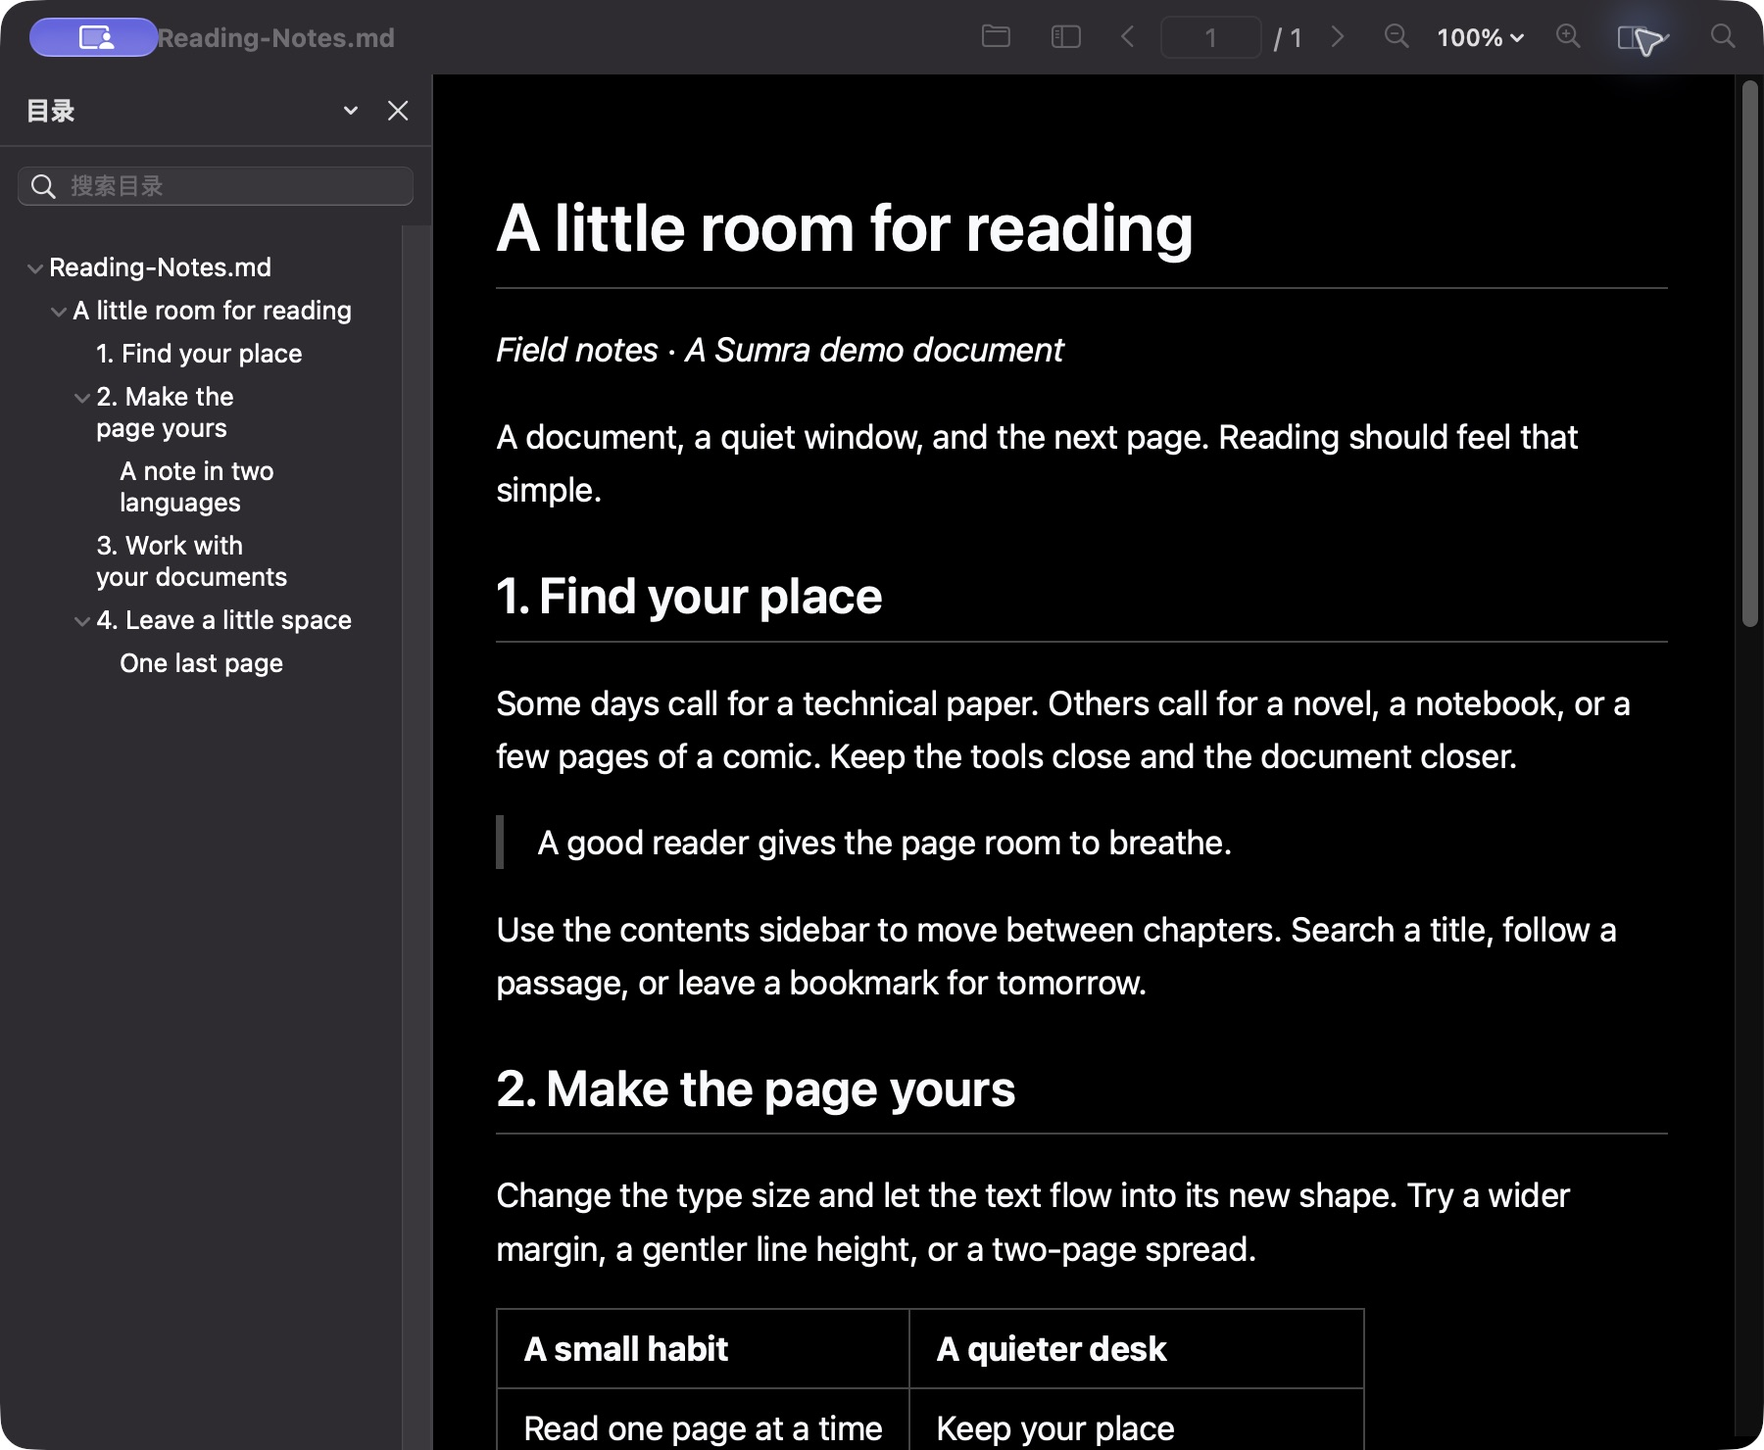
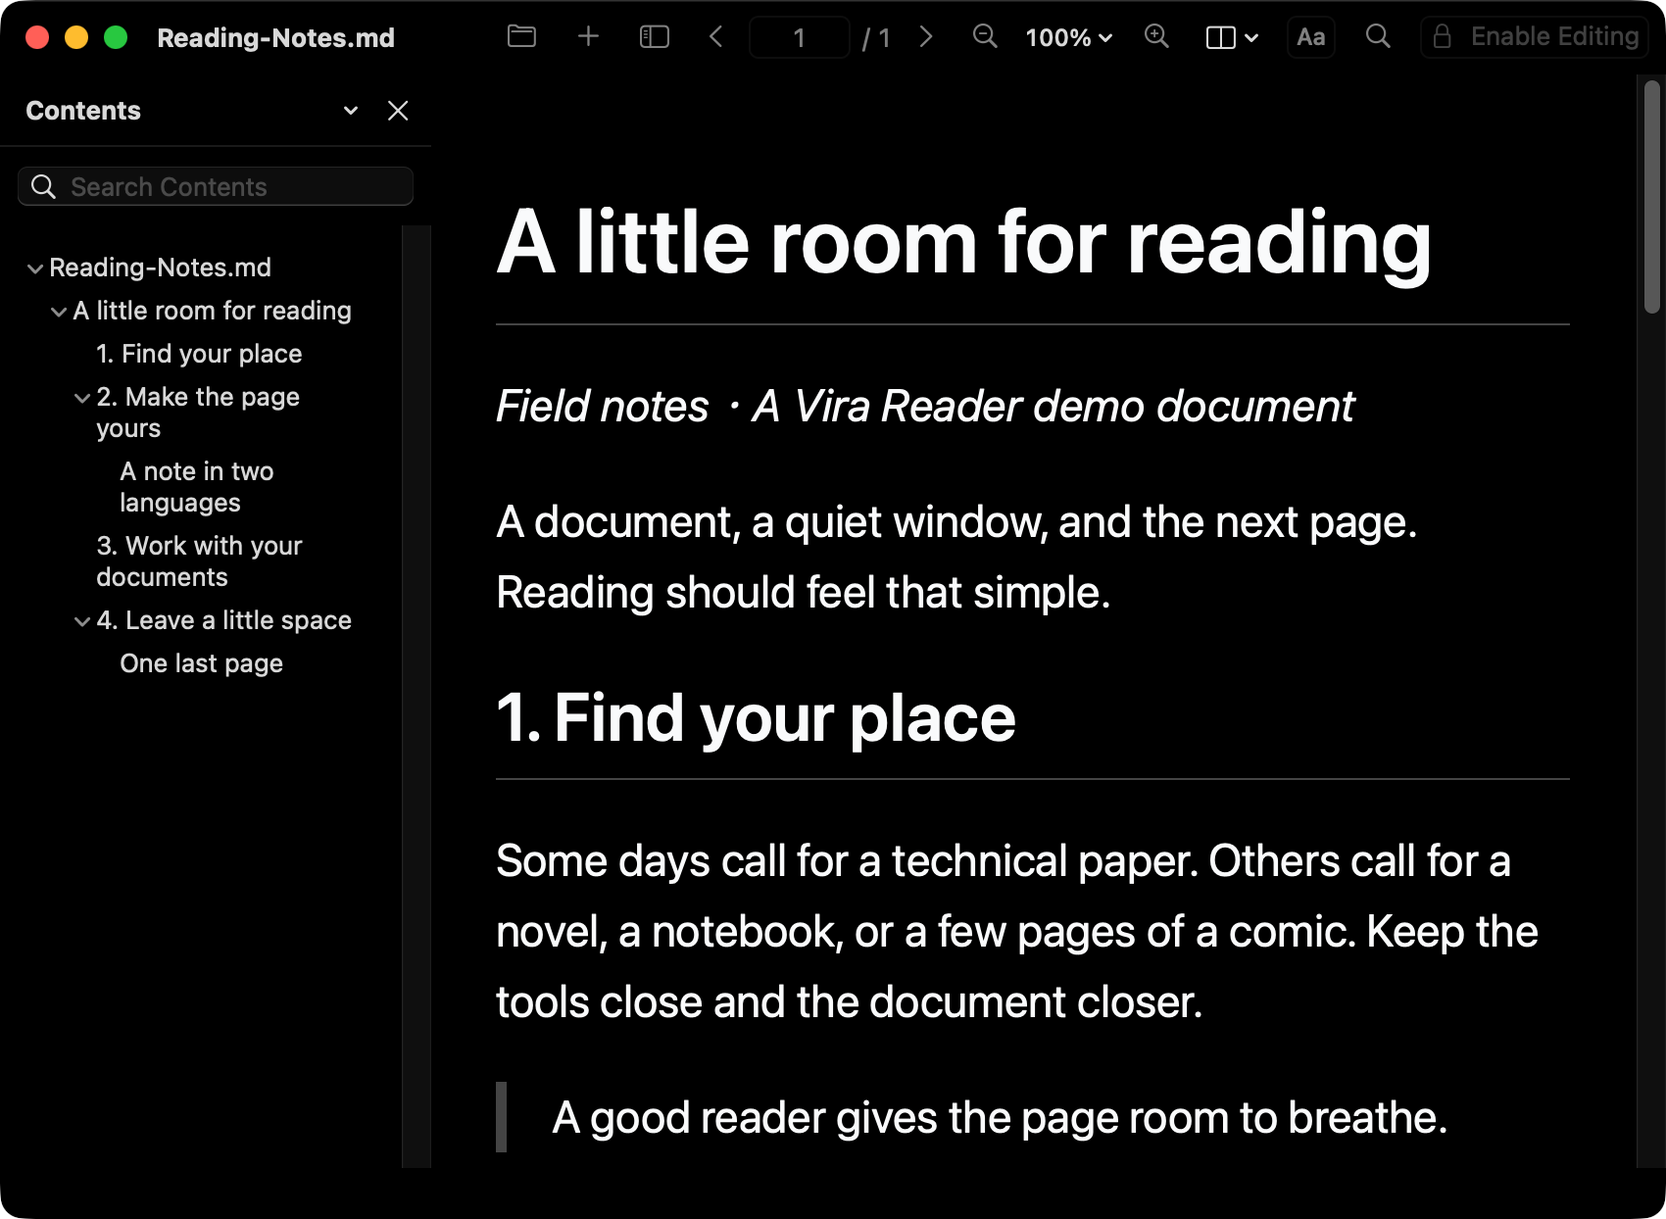
Record signed Vira identity migration and native preview screenshots

diff --git a/docs/VIRA_READER_RENAME.md b/docs/VIRA_READER_RENAME.md
@@ -6,10 +6,26 @@ The icon follows the maintainer's supplied monochrome double-page V reference. [
 
 The application uses `dev.aresx.vira-reader`, with `.preview` and `.thumbnail` extensions. Existing exported document UTIs and the `sumra://synctex` integration remain compatible. The Ares-X signing certificate and Sparkle Ed25519 key are unchanged. Existing diagnostic/cache storage remains in its current location. A one-time preference migration reads the old `dev.aresx.leaf` domain, preserves existing new-domain choices, copies settings/history/bookmarks/positions without changing the old domain, and excludes old Sparkle delivery/runtime state. It runs before diagnostics and language initialization. Native macOS saved windows and default file-handler selection are separate OS state and are not claimed to migrate.
 
-Changing both the application filename and bundle ID means stock Sumra 0.2.47 cannot identify the new bundle as an in-place update. The first transition requires manually installing `Vira Reader.app`. The old `appcast.xml` remains frozen for Sumra; the new identity uses `vira-appcast.xml`, initially a valid empty feed because this round does not publish a Vira Reader version. Future Vira releases update only the new feed. No custom installer, bridge build or duplicate update archive is introduced. Actual signed manual-install and preference-migration acceptance remains pending.
+Changing both the application filename and bundle ID means stock Sumra 0.2.47 cannot identify the new bundle as an in-place update. The first transition requires manually installing `Vira Reader.app`. The old `appcast.xml` remains frozen for Sumra; the new identity uses `vira-appcast.xml`, initially a valid empty feed because this round does not publish a Vira Reader version. Future Vira releases update only the new feed. No custom installer, bridge build or duplicate update archive is introduced. Signed manual installation and preference migration passed in the existing macOS 26.6.2 VM; details follow below.
 
-At the maintainer's explicit selection, 77 older releases and their 461 assets were deleted, representing 14,224,912,496 logical bytes. Public versions 0.2.45/46/47 and the previously accepted 0.2.48 draft were retained with their original asset identities. All 48 Git tag refs and commit history remained unchanged. The new branding candidate will be tested separately. No billing or physical storage reclamation is inferred from asset sizes.
+At the maintainer's explicit selection, 77 older releases and their 461 assets were deleted, representing 14,224,912,496 logical bytes. Public versions 0.2.45/46/47 and the previously accepted 0.2.48 draft were retained with their original asset identities. All 48 Git tag refs and commit history remained unchanged. The separately built new-identity candidate passed the acceptance recorded below. No billing or physical storage reclamation is inferred from asset sizes.
 
-After repository rename, the old and new raw feeds returned identical bytes, all 18 preserved old asset URLs were reachable, the three public checksum manifests matched, and old/new Git HEADs matched. The old PR URL redirected correctly. The old issue #158 webpage returned 404 even with a unique query, while its new webpage returned 200 and both API paths returned the same issue ID. That GitHub webpage redirect remains an external limitation; use the canonical new issue link. No reporter reply was posted.
+After repository rename, the old and new raw feeds returned identical bytes, all 18 preserved old asset URLs were reachable, the three public checksum manifests matched, and old/new Git HEADs matched. The old PR URL redirected correctly. The old issue #158 webpage initially returned 404 even with a unique query. A later bare GET at 2026-11-17 09:45:39 UTC returned 200 and redirected to the canonical new issue URL; the initial failure and recovery evidence are retained. Both API paths always returned the same issue ID. No reporter reply was posted.
 
-Evidence is retained under `build/issues-remaining48/rebrand/`: exact cleanup manifests and per-release deletion receipts, post-rename public compatibility probes, packaging/localization checks, and focused native tests. The original bug-fix draft's signed acceptance is recorded separately in [the issue acceptance record](ISSUES_158_160_161_ACCEPTANCE.md). Signed branding/update/visual acceptance will be appended after the exact candidate is exercised in the existing macOS 26.6.2 VM.
+Evidence is retained under `build/issues-remaining48/rebrand/`: exact cleanup manifests and per-release deletion receipts, post-rename public compatibility probes, packaging/localization checks, and focused native tests. The original bug-fix draft's signed acceptance is recorded separately in [the issue acceptance record](ISSUES_158_160_161_ACCEPTANCE.md). The signed branding and manual-migration acceptance below does not claim an in-place Sumra upgrade or a public Vira release.
+
+## Accepted new-identity preview
+
[1 lines of base64/hex data omitted]
+
+All six assets, all 140 application files, all three new bundle identifiers, original certificate/public-key pins, arm64/macOS 13 metadata and corresponding-source inventory passed verification. The installed VM application matched all 140 file hashes and passed deep strict signature checks. The old-ID intermediate build was cancelled when the maintainer requested the new identity.
+
+The original signed Sumra 0.2.47 first displayed a controlled recent document. Fresh manual installation of the exact Vira archive showed that same history on its new Home screen. Font size 23, English language, history Data, pinned state and the automatic-check choice matched. The old domain was semantically identical before and after launch. Old feed/key overrides were excluded. A second launch preserved the new toolbar choice, history and identity marker; the old domain again remained unchanged. The isolated migration tests separately cover existing new-domain choices, byte preservation and one-time behavior.
+
+The new icon appeared on Home and in the Dock. The signed app opened the original Markdown demo and rendered light/dark reading views with its contents sidebar. Three README screenshots were captured directly from the actual native windows; the two-page image remains explicitly labelled as a historical Sumra capture. No personal documents are shown.
+
+Actual Finder Quick Look loaded the new `dev.aresx.vira-reader.preview` executable from the accepted app and rendered the controlled CBZ at 1/3. This is preview-render acceptance, not keyboard or page-navigation acceptance. The thumbnail bundle's new identity/signature was verified; the VM's pre-existing thumbnail service was preserved, so a newly loaded thumbnail host is not claimed. macOS default associations, native saved-window state, Keychain authorization and reporter macOS 15.7.5 were not accepted as migration outcomes.
+
+Local checks passed: 58 packaging checks, host/extension registration, localization metadata, six contributor-script cases, 15 focused branding cases, then 15 focused identity/migration/native cases. The identity suite kept source and engine hashes frozen and removed its private hosts/preferences. No new public version, reporter comment or issue closure was performed. #96 remains unresolved; #158 awaits the reporter's original-system confirmation, and #160/#161 await public delivery.
+
+Detailed evidence: `rebrand/release/signed-verification.json`, `vm/vira-installed.json`, `vm/vira-migration-acceptance.json`, `vm/vira-second-launch-acceptance.json`, `vm/vira-finder-acceptance.json` and the original native-window PNGs under `build/issues-remaining48/`.

diff --git a/README.md b/README.md
@@ -12,20 +12,20 @@
 
 [**Download Sumra 0.2.47**](https://github.com/Ares-X/Vira-Reader/releases/latest) · [Release notes](https://github.com/Ares-X/Vira-Reader/releases) · [Supported formats](#supported-formats) · [Build from source](#build-from-source) · [Report an issue](https://github.com/Ares-X/Vira-Reader/issues)
 
-**Rename preview:** Vira Reader is the new name of Sumra. No Vira Reader release has been published yet; the latest public download is still **Sumra 0.2.47**. Build the renamed app from source to try this preview. The screenshots below show the previous Sumra interface.
+**Rename preview:** Vira Reader is the new name of Sumra. No Vira Reader release has been published yet; the latest public download is still **Sumra 0.2.47**. Build the renamed app from source to try this preview. Home, light-mode and dark-mode screenshots show the signed Vira Reader preview; the two-page screenshot shows the earlier Sumra version.
 
 Open an EPUB novel, a comic archive, a folder of images, Markdown notes or a PDF from Finder. Read in native Mac windows and tabs, choose your layout, and use contents, search and bookmarks to find your place.
 
-![Sumra displaying Markdown reading notes and contents in light mode](docs/images/reader-light.png)
+![Vira Reader displaying Markdown reading notes and contents in light mode](docs/images/reader-light.png)
 
 <details>
 <summary>More screenshots: two-page reading, recent files and dark mode</summary>
 
-![Two-page reading with the contents sidebar](docs/images/reader-two-pages.png)
+![Earlier Sumra version: two-page reading with the contents sidebar](docs/images/reader-two-pages.png)
 
-![Recent documents on the Home screen](docs/images/home-light.png)
+![Vira Reader recent documents on the Home screen](docs/images/home-light.png)
 
-![Reading in dark mode](docs/images/reader-dark.png)
+![Vira Reader reading in dark mode](docs/images/reader-dark.png)
 
 All screenshots use the repository's [original demo document](docs/demos/Reading-Notes.md).
 
@@ -46,7 +46,7 @@ Public builds use the maintainer's **Ares-X Code Signing** self-signed certifica
 
 The release targets **Apple Silicon (arm64)** and **macOS 13 or later**. Bundled executables and libraries are checked for arm64 support, deployment targets and runtime dependencies. Reader GUI acceptance has been performed on a macOS 26.6.2 VM; a physical macOS 13 machine has not yet been verified.
 
-**Moving from Sumra:** install **Vira Reader.app** manually once; the app has a new bundle identifier and a separate update feed. Sumra’s feed stays at 0.2.47. On first launch, the app copies old preferences and reading history without overwriting choices already saved in Vira Reader; VM acceptance of this migration is pending. Default file associations and macOS saved windows are not migrated.
+**Moving from Sumra:** install **Vira Reader.app** manually once; the app has a new bundle identifier and a separate update feed. Sumra’s feed stays at 0.2.47. On first launch, the app copies old preferences and reading history without overwriting choices already saved in Vira Reader. A manual-install check on macOS 26.6.2 verified controlled reading history, font size, language and the automatic-update choice, with the original Sumra settings unchanged. Default file associations and macOS saved windows are outside this preference migration.
 
 Vira Reader uses its own update feed, which currently contains no published release. PostScript and EPS require a separate Ghostscript installation.
 
@@ -65,7 +65,7 @@ Use the sidebar for Contents, thumbnails and bookmarks, the **View** menu for la
 
 Choose from five built-in reading themes, or save your own text, background and link colors. **View → Document Colors → Choose Theme…** previews the selection; **Customize…** creates a named palette or edits the selected custom theme. Previously saved theme settings remain readable:
 
-![Preview of Sumra's five built-in reading themes](docs/images/themes.png)
+![Preview of Vira Reader's five built-in reading themes](docs/images/themes.png)
 
 Choose installed fonts from the reading **Font** menu or Settings. The **Aa** reading-settings button applies typography, colors and layout live; **Typography and CSS…** also accepts a family name, such as `Iowan Old Style`, including supplemental fonts macOS omits from its available-font list. Install your own font files with macOS Font Book first. **Light** uses pure white paper. For per-document text, background and link colors, open **View → Document Colors → Custom Document Colors…**. Color wells, RGB fields and an instant preview help you choose; **Use Theme** restores the theme palette.
 

diff --git a/README.zh-CN.md b/README.zh-CN.md
@@ -12,20 +12,20 @@
 
 [**下载 Sumra 0.2.47**](https://github.com/Ares-X/Vira-Reader/releases/latest) · [版本说明](https://github.com/Ares-X/Vira-Reader/releases) · [支持格式](#支持的格式) · [从源码构建](#从源码构建) · [问题反馈](https://github.com/Ares-X/Vira-Reader/issues)
 
-**更名预览：**Vira Reader 是 Sumra 的新名称。目前尚未公开发布 Vira Reader，最新公开下载仍为 **Sumra 0.2.47**。可从源码构建体验更名后的应用。下方截图展示更名前的 Sumra 界面。
+**更名预览：**Vira Reader 是 Sumra 的新名称。目前尚未公开发布 Vira Reader，最新公开下载仍为 **Sumra 0.2.47**。可从源码构建体验更名后的应用。首页、浅色和深色截图来自已签名的 Vira Reader 预览版；双页截图展示更名前的 Sumra 版本。
 
 从 Finder 打开 EPUB 小说、漫画压缩包、图片文件夹、Markdown 笔记或 PDF。在原生 Mac 窗口和标签页中阅读，选择合适的布局，用目录、搜索和书签找到想读的内容。
 
-![Sumra 浅色界面，展示 Markdown 阅读笔记与目录](docs/images/reader-light.png)
+![Vira Reader 浅色界面，展示 Markdown 阅读笔记与目录](docs/images/reader-light.png)
 
 <details>
 <summary>更多截图：双页阅读、最近文件与深色界面</summary>
 
-![双页阅读与目录侧栏](docs/images/reader-two-pages.png)
+![旧版 Sumra：双页阅读与目录侧栏](docs/images/reader-two-pages.png)
 
-![首页中的最近文档](docs/images/home-light.png)
+![Vira Reader 首页中的最近文档](docs/images/home-light.png)
 
-![深色阅读界面](docs/images/reader-dark.png)
+![Vira Reader 深色阅读界面](docs/images/reader-dark.png)
 
 截图均使用仓库内的[原创演示文档](docs/demos/Reading-Notes.md)。
 
@@ -46,7 +46,7 @@
 
 发行版面向 **Apple Silicon（arm64）**，最低系统目标为 **macOS 13**。打包时检查可执行文件与库的 arm64 支持、最低系统和运行时依赖。阅读器 GUI 已在 macOS 26.6.2 虚拟机完成验收，macOS 13 的实机兼容性尚未验证。
 
-**从 Sumra 迁移：**需手动安装一次 **Vira Reader.app**；新应用使用新的 bundle identifier 和独立更新源，Sumra 更新源停留在 0.2.47。首次启动会复制旧偏好设置和阅读历史，并保留 Vira Reader 已有的选择；此迁移尚待虚拟机验收。默认文件关联和 macOS 窗口恢复状态不会随偏好设置迁移。
+**从 Sumra 迁移：**需手动安装一次 **Vira Reader.app**；新应用使用新的 bundle identifier 和独立更新源，Sumra 更新源停留在 0.2.47。首次启动会复制旧偏好设置和阅读历史，并保留 Vira Reader 已有的选择；已在 macOS 26.6.2 虚拟机通过手动安装验证受控阅读历史、字号、语言和自动更新选择的迁移，原 Sumra 设置保持不变。默认文件关联和 macOS 窗口恢复状态不属于此偏好设置迁移范围。
 
 Vira Reader 使用独立更新源，目前其中尚无公开版本。PostScript 与 EPS 需另行安装 Ghostscript。
 
@@ -65,7 +65,7 @@ Vira Reader 使用独立更新源，目前其中尚无公开版本。PostScript 
 
 可从五种内置阅读主题中选择，也可自定义并保存正文、背景和链接颜色。现有自定义主题和已保存的设置仍可继续使用：
 
-![Sumra 五种内置阅读主题预览](docs/images/themes.png)
+![Vira Reader 五种内置阅读主题预览](docs/images/themes.png)
 
 工具栏 **Aa** 打开即时生效的阅读设置，集中调整已安装字体、字号、行距、边距、配色与布局，也可输入补充字体名称。CHM 带有关键词索引时，侧栏会提供独立的 **索引** 页签。EPUB 和漫画支持 Finder 缩略图与 Quick Look 翻页预览。详见[阅读控件](docs/READER_CONTROLS.md)和 [SyncTeX 编辑器集成](docs/SYNCTEX.md)。
 

diff --git a/README.zh-TW.md b/README.zh-TW.md
@@ -12,20 +12,20 @@
 
 [**下載 Sumra 0.2.47**](https://github.com/Ares-X/Vira-Reader/releases/latest) · [版本資訊](https://github.com/Ares-X/Vira-Reader/releases) · [支援格式](#支援的格式) · [從原始碼建置](#從原始碼建置) · [回報問題](https://github.com/Ares-X/Vira-Reader/issues)
 
-**更名預覽：**Vira Reader 是 Sumra 的新名稱。目前尚未公開發布 Vira Reader，最新公開下載仍為 **Sumra 0.2.47**。可從原始碼建置體驗更名後的 App。下方截圖顯示更名前的 Sumra 介面。
+**更名預覽：**Vira Reader 是 Sumra 的新名稱。目前尚未公開發布 Vira Reader，最新公開下載仍為 **Sumra 0.2.47**。可從原始碼建置體驗更名後的 App。首頁、淺色和深色截圖來自已簽署的 Vira Reader 預覽版；雙頁截圖顯示更名前的 Sumra 版本。
 
 從 Finder 開啟 EPUB 小說、漫畫壓縮檔、圖片資料夾、Markdown 筆記或 PDF。在原生 Mac 視窗和分頁中閱讀，選擇合適的版面配置，再透過目錄、搜尋和書籤找到想看的內容。
 
-![Sumra 淺色模式畫面，顯示 Markdown 閱讀筆記與目錄](docs/images/reader-light.png)
+![Vira Reader 淺色模式畫面，顯示 Markdown 閱讀筆記與目錄](docs/images/reader-light.png)
 
 <details>
 <summary>更多截圖：雙頁閱讀、最近開啟的檔案與深色模式</summary>
 
-![雙頁閱讀與目錄側邊欄](docs/images/reader-two-pages.png)
+![舊版 Sumra：雙頁閱讀與目錄側邊欄](docs/images/reader-two-pages.png)
 
-![首頁上的最近文件](docs/images/home-light.png)
+![Vira Reader 首頁上的最近文件](docs/images/home-light.png)
 
-![深色模式閱讀畫面](docs/images/reader-dark.png)
+![Vira Reader 深色模式閱讀畫面](docs/images/reader-dark.png)
 
 所有截圖都使用儲存庫中的[原創示範文件](docs/demos/Reading-Notes.md)。
 
@@ -46,7 +46,7 @@
 
 發行版以 **Apple Silicon（arm64）** 為目標平台，最低系統目標為 **macOS 13**。打包時會檢查內附執行檔和程式庫的 arm64 支援、最低部署版本與執行階段相依項目。閱讀器 GUI 已在 macOS 26.6.2 虛擬機完成驗收；尚未在 macOS 13 實機上驗證。
 
-**從 Sumra 遷移：**需手動安裝一次 **Vira Reader.app**；新 App 使用新的 bundle identifier 和獨立更新來源，Sumra 更新來源停留在 0.2.47。首次啟動會複製舊偏好設定和閱讀歷程，並保留 Vira Reader 已有的選擇；此遷移尚待虛擬機驗收。預設檔案關聯和 macOS 視窗恢復狀態不會隨偏好設定遷移。
+**從 Sumra 遷移：**需手動安裝一次 **Vira Reader.app**；新 App 使用新的 bundle identifier 和獨立更新來源，Sumra 更新來源停留在 0.2.47。首次啟動會複製舊偏好設定和閱讀歷程，並保留 Vira Reader 已有的選擇；已在 macOS 26.6.2 虛擬機透過手動安裝驗證受控閱讀歷程、字級、語言和自動更新選擇的遷移，原 Sumra 設定保持不變。預設檔案關聯和 macOS 視窗恢復狀態不在此偏好設定遷移範圍內。
 
 Vira Reader 使用獨立更新來源，目前尚無公開版本。PostScript 和 EPS 需要另外安裝 Ghostscript。
 
@@ -65,7 +65,7 @@ Vira Reader 使用獨立更新來源，目前尚無公開版本。PostScript 和
 
 可選擇五種內建閱讀主題，也可自訂並儲存文字、背景和連結色彩。現有自訂主題與已儲存設定仍可繼續使用：
 
-![Sumra 五種內建閱讀主題預覽](docs/images/themes.png)
+![Vira Reader 五種內建閱讀主題預覽](docs/images/themes.png)
 
 ## 支援的格式
 
